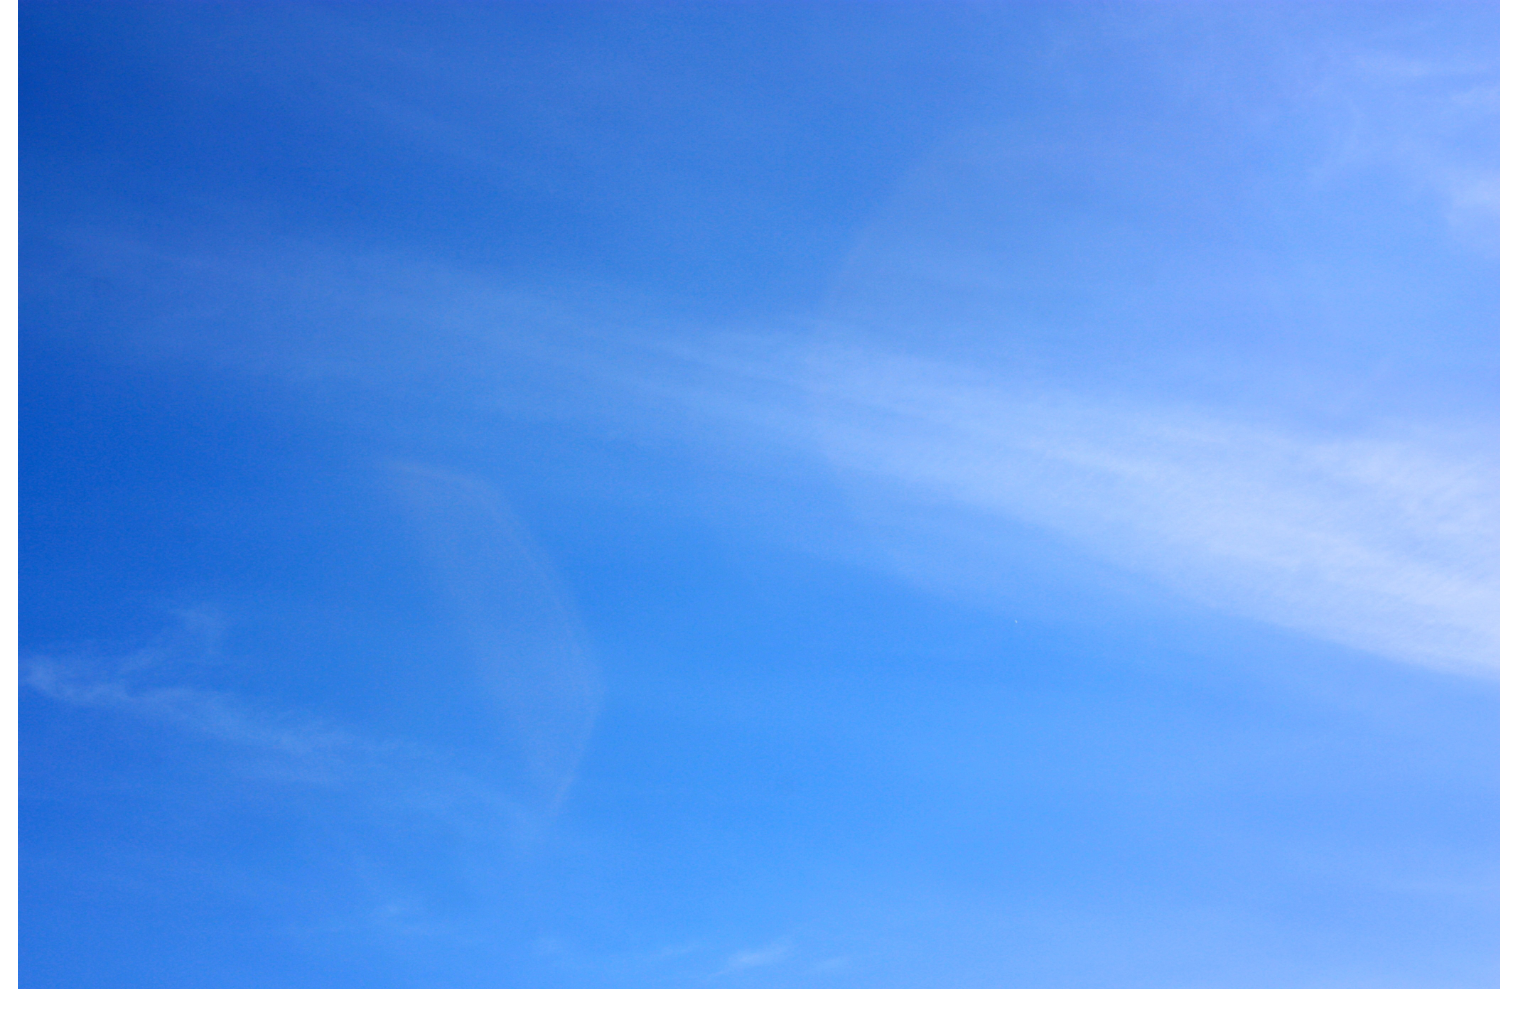
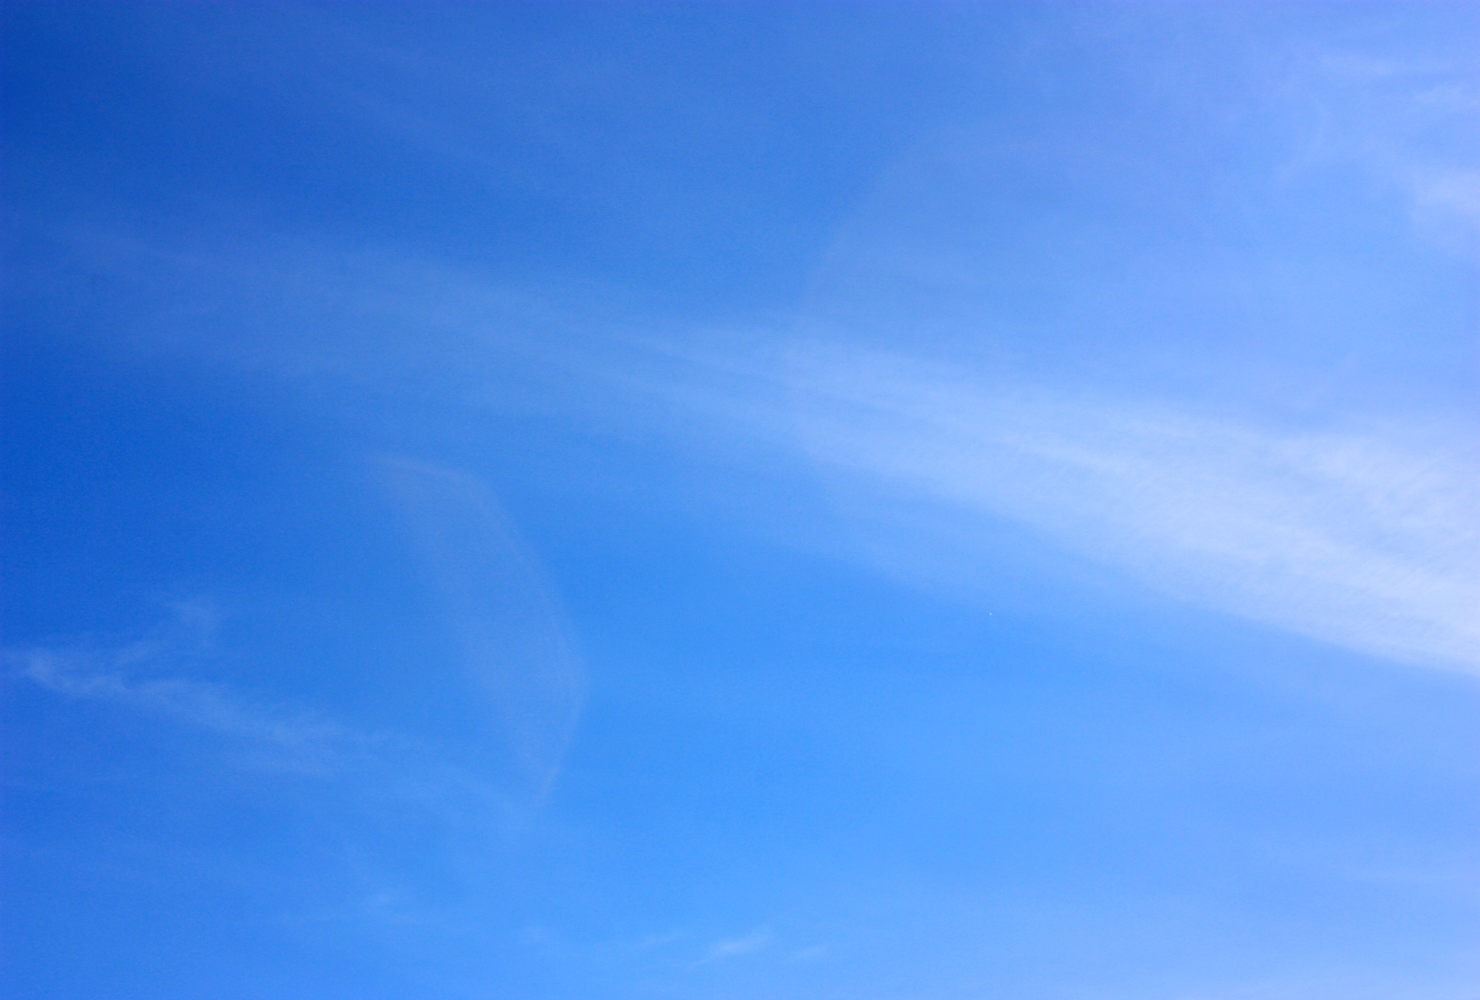
Hero con dos capas separadas: cielo + quinta con fade-in de abajo hacia arriba y texto Ver más animado

Changed region(s): [[0.0, 0.0, 1.0, 1.0]]

diff --git a/src/components/HeroSection.js b/src/components/HeroSection.js
@@ -5,12 +5,12 @@ import { ScrollTrigger } from "gsap/ScrollTrigger";
 
 export default function HeroSection() {
   const sectionRef = useRef(null);
-  const bgRef      = useRef(null);
+  const skyRef     = useRef(null);
+  const houseRef   = useRef(null);
   const overlayRef = useRef(null);
   const contentRef = useRef(null);
-  const taglineRef = useRef(null);
-  const ctaRef     = useRef(null);
-  const lineRef    = useRef(null);
+  const verMasRef  = useRef(null);
+  const arrowRef   = useRef(null);
 
   useEffect(() => {
     gsap.registerPlugin(ScrollTrigger);
@@ -21,29 +21,39 @@ export default function HeroSection() {
       const tl = gsap.timeline({ defaults: { ease: "expo.out" } });
 
       tl
-        /* 1. Image settles from zoom */
-        .fromTo(bgRef.current,
-          { scale: 1.18, filter: "brightness(0.3) blur(6px)" },
-          { scale: 1.05, filter: "brightness(0.88) blur(0px)", duration: 2.6, ease: "power3.out" }
+        /* 1. Cielo */
+        .fromTo(skyRef.current,
+          { scale: 1.12, filter: "brightness(0.5) blur(4px)" },
+          { scale: 1.02, filter: "brightness(0.92) blur(0px)", duration: 2.4, ease: "power3.out" }
         )
-        /* 2. Tagline rises */
-        .fromTo(taglineRef.current,
-          { opacity: 0, y: 22 },
+        /* 2. Quinta sube con fade-in */
+        .fromTo(houseRef.current,
+          { y: 90, opacity: 0 },
+          { y: 0, opacity: 1, duration: 1.5, ease: "expo.out" },
+          "-=1.8"
+        )
+        /* 3. Texto "Ver más" */
+        .fromTo(verMasRef.current,
+          { opacity: 0, y: 20 },
           { opacity: 1, y: 0, duration: 1.0 },
-          "-=1.0"
+          "-=0.7"
         )
-        /* 3. CTA fades */
-        .fromTo(ctaRef.current,
-          { opacity: 0, y: 18 },
-          { opacity: 1, y: 0, duration: 0.9 },
-          "-=0.6"
-        )
-        /* 4. Scroll line */
-        .fromTo(lineRef.current,
-          { scaleY: 0, opacity: 0, transformOrigin: "top center" },
-          { scaleY: 1, opacity: 0.5, duration: 0.7 },
+        /* 4. Flecha aparece */
+        .fromTo(arrowRef.current,
+          { opacity: 0, y: -8 },
+          { opacity: 1, y: 0, duration: 0.6 },
           "-=0.4"
         );
+
+      /* Flecha rebota continuamente */
+      gsap.to(arrowRef.current, {
+        y: 8,
+        repeat: -1,
+        yoyo: true,
+        duration: 0.9,
+        ease: "power1.inOut",
+        delay: 2.8,
+      });
 
       /* ── PARALLAX ON SCROLL ── */
       ScrollTrigger.create({
@@ -54,19 +64,20 @@ export default function HeroSection() {
         onUpdate(self) {
           const p = self.progress;
 
-          // Background moves slower than scroll (parallax depth)
-          gsap.set(bgRef.current, {
-            y:      p * 120,
-            scale:  1.05 + p * 0.04,
-            filter: `brightness(${0.88 - p * 0.38}) blur(${p * 2.5}px)`,
+          gsap.set(skyRef.current, {
+            y:      p * 100,
+            scale:  1.02 + p * 0.04,
+            filter: `brightness(${0.92 - p * 0.42}) blur(${p * 2}px)`,
           });
 
-          // Overlay deepens
+          gsap.set(houseRef.current, {
+            y: p * 45,
+          });
+
           gsap.set(overlayRef.current, {
             opacity: 0.15 + p * 0.6,
           });
 
-          // Content floats up and fades faster
           gsap.set(contentRef.current, {
             y:       p * -80,
             opacity: Math.max(0, 1 - p * 2.2),
@@ -86,60 +97,77 @@ export default function HeroSection() {
       className="relative h-screen w-full overflow-hidden"
     >
 
-      {/* ── Hero image with parallax ── */}
+      {/* ── Capa 1: Cielo ── */}
       <div
-        ref={bgRef}
+        ref={skyRef}
         className="absolute inset-0 z-0 will-change-transform"
         style={{ transformOrigin: "center center" }}
       >
         <img
-          src="/herorentahouse.jpg"
-          alt="Rent-A-House"
-          className="w-full h-full object-cover object-center"
+          src="/cielorentahouse.png"
+          alt=""
+          className="w-full h-full object-cover object-top"
           draggable="false"
         />
       </div>
 
-      {/* ── Cinematic vignette ── */}
+      {/* ── Capa 2: Quinta ── */}
+      <div
+        ref={houseRef}
+        className="absolute inset-x-0 bottom-0 z-10 will-change-transform"
+        style={{ opacity: 0 }}
+      >
+        <img
+          src="/quintahouse.png"
+          alt="Rent-A-House"
+          className="w-full object-contain object-bottom"
+          draggable="false"
+        />
+      </div>
+
+      {/* ── Viñeta ── */}
       <div
         ref={overlayRef}
-        className="absolute inset-0 z-10 pointer-events-none"
+        className="absolute inset-0 z-20 pointer-events-none"
         style={{
           background: "radial-gradient(ellipse 90% 80% at 50% 50%, transparent 20%, rgba(0,0,0,0.65) 100%)",
           opacity: 0.15,
         }}
       />
 
-      {/* ── Bottom gradient ── */}
+      {/* ── Degradado inferior ── */}
       <div
-        className="absolute inset-x-0 bottom-0 z-10 pointer-events-none h-52"
+        className="absolute inset-x-0 bottom-0 z-20 pointer-events-none h-52"
         style={{ background: "linear-gradient(to top, rgba(4,4,6,0.75) 0%, transparent 100%)" }}
       />
 
-      {/* ── Content ── */}
+      {/* ── Contenido ── */}
       <div
         ref={contentRef}
-        className="absolute z-20 inset-x-0 bottom-10 flex flex-col items-center gap-5 px-6 will-change-transform"
+        className="absolute z-30 inset-x-0 bottom-10 flex flex-col items-center gap-3 px-6 will-change-transform"
       >
-        <p
-          ref={taglineRef}
-          className="text-[10px] md:text-[11px] uppercase tracking-[0.65em] text-white/85 font-bold"
-          style={{ opacity: 0 }}
-        >
-          Asesoría inmobiliaria de alto nivel
-        </p>
-
         <a
-          ref={ctaRef}
-          href="#contacto"
-          className="inline-flex items-center gap-2 text-[9px] uppercase tracking-[0.28em] font-black px-9 py-3.5 rounded-full bg-[#E20613] text-white shadow-[0_4px_28px_rgba(226,6,19,0.55)] hover:bg-[#c00510] hover:shadow-[0_6px_36px_rgba(226,6,19,0.7)] transition-all duration-300 active:scale-95"
+          ref={verMasRef}
+          href="#propiedades"
+          className="text-[10px] md:text-[11px] uppercase tracking-[0.55em] text-white/80 font-bold hover:text-white transition-colors duration-300"
           style={{ opacity: 0 }}
         >
-          Contactar
+          Ver más
         </a>
 
-        <div ref={lineRef} style={{ opacity: 0 }}>
-          <div className="w-px h-7 bg-gradient-to-b from-white to-transparent mx-auto" />
+        <div ref={arrowRef} style={{ opacity: 0 }}>
+          <svg
+            width="18" height="18"
+            viewBox="0 0 24 24"
+            fill="none"
+            stroke="currentColor"
+            strokeWidth="2"
+            strokeLinecap="round"
+            strokeLinejoin="round"
+            className="text-white/60"
+          >
+            <polyline points="6 9 12 15 18 9" />
+          </svg>
         </div>
       </div>
 
